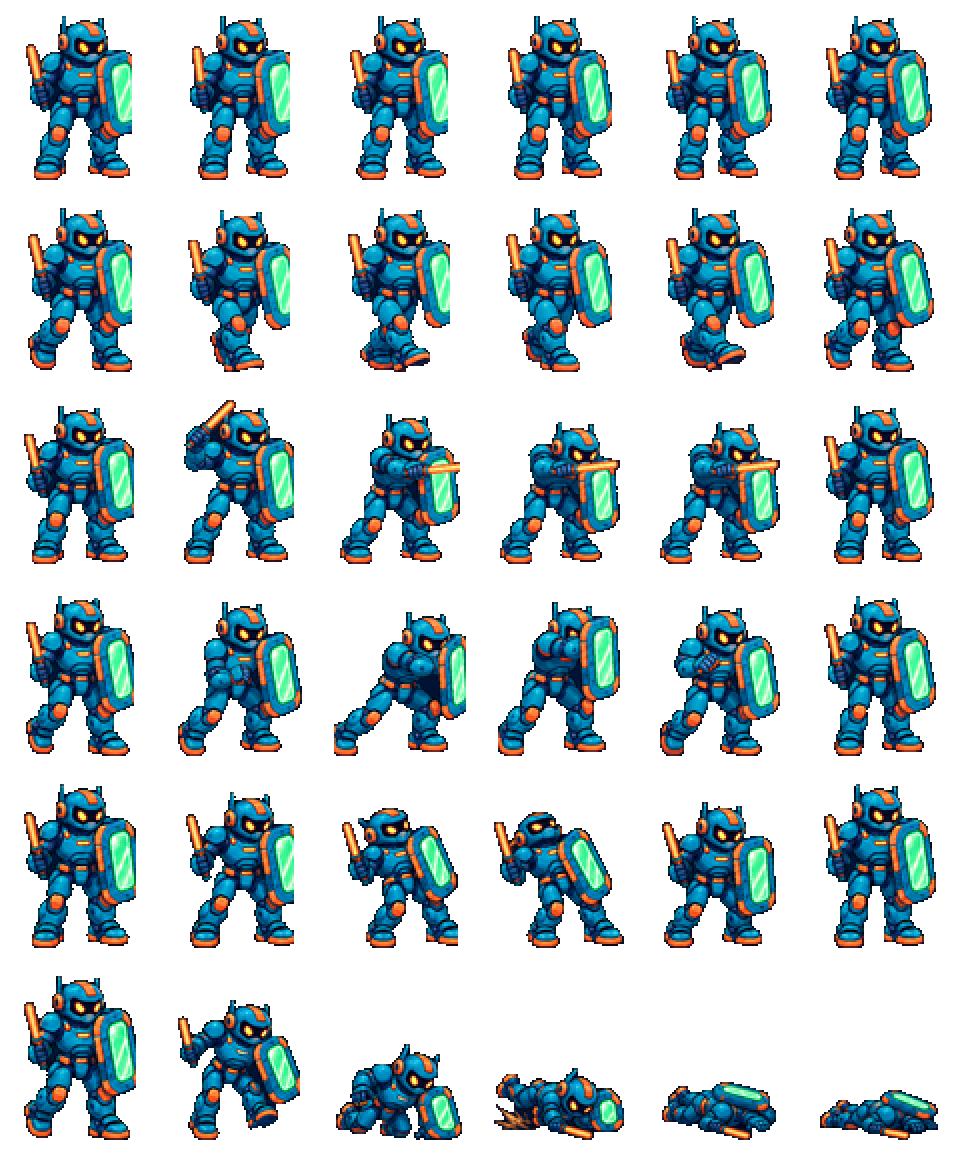
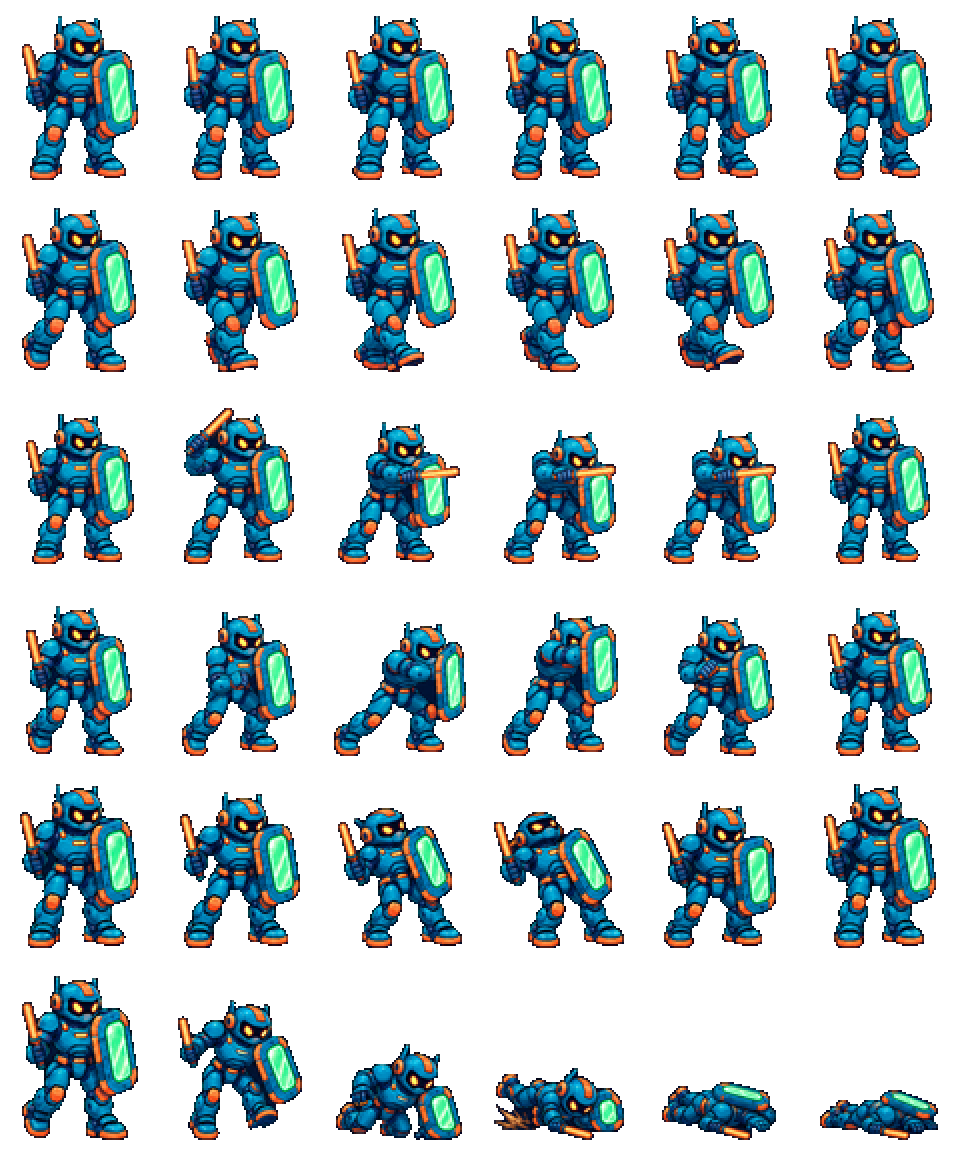
fix(assets): extract complete enemy poses by silhouette

diff --git a/android/tools/build_striker_enemy.py b/android/tools/build_striker_enemy.py
@@ -142,6 +142,60 @@ def clear_panel_edges(image: Image.Image) -> Image.Image:
     return rgba
 
 
+def component_boxes(mask: Image.Image) -> list[tuple[int, int, int, int]]:
+    """Find complete authored poses without assuming equal-width panels."""
+    width, height = mask.size
+    pixels = mask.load()
+    seen = bytearray(width * height)
+    boxes = []
+    for sy in range(height):
+        for sx in range(width):
+            index = sy * width + sx
+            if seen[index] or pixels[sx, sy] == 0:
+                continue
+            queue = deque([(sx, sy)])
+            seen[index] = 1
+            count = 0
+            left = right = sx
+            top = bottom = sy
+            while queue:
+                x, y = queue.popleft()
+                count += 1
+                left, right = min(left, x), max(right, x)
+                top, bottom = min(top, y), max(bottom, y)
+                for nx, ny in ((x-1,y),(x+1,y),(x,y-1),(x,y+1)):
+                    if 0 <= nx < width and 0 <= ny < height:
+                        ni = ny * width + nx
+                        if not seen[ni] and pixels[nx, ny]:
+                            seen[ni] = 1
+                            queue.append((nx, ny))
+            if count >= 5000:
+                boxes.append((left, top, right + 1, bottom + 1))
+    return boxes
+
+
+def complete_component_rows(image: Image.Image) -> list[list[Image.Image] | None]:
+    """Use transparent source components when all six poses are separable."""
+    clean = hard_alpha(image)
+    boxes = component_boxes(clean.getchannel("A"))
+    result: list[list[Image.Image] | None] = []
+    for row in range(2):
+        selected = [box for box in boxes
+                    if ((box[1] + box[3]) * 0.5 < image.height * 0.5) == (row == 0)]
+        selected.sort(key=lambda box: box[0])
+        if len(selected) != COLS:
+            result.append(None)
+            continue
+        frames = []
+        for left, top, right, bottom in selected:
+            pad = 8
+            crop = clean.crop((max(0, left-pad), max(0, top-pad),
+                                min(clean.width, right+pad), min(clean.height, bottom+pad)))
+            frames.append(keep_character_component(crop))
+        result.append(frames)
+    return result
+
+
 def translate_cell(image: Image.Image, dx: int, dy: int) -> Image.Image:
     shifted = Image.new("RGBA", image.size, (0, 0, 0, 0))
     shifted.alpha_composite(image, (dx, dy))
@@ -150,12 +204,16 @@ def translate_cell(image: Image.Image, dx: int, dy: int) -> Image.Image:
 
 def split_sheet(path: Path) -> list[list[Image.Image]]:
     image = Image.open(path)
+    component_rows = complete_component_rows(image.convert("RGBA")) if image.mode == "RGBA" else [None, None]
     if image.mode != "RGBA":
         image = remove_light_checker(image)
     else:
         image = image.convert("RGBA")
     result: list[list[Image.Image]] = []
     for row in range(2):
+        if component_rows[row] is not None:
+            result.append(component_rows[row])
+            continue
         frames = []
         top = round(image.height * row / 2)
         bottom = round(image.height * (row + 1) / 2)

diff --git a/android/tools/build_shield_guard_enemy.py b/android/tools/build_shield_guard_enemy.py
@@ -30,8 +30,8 @@ SHEETS = (
 SAFE_FRAME_REMAP = {2: (0, 1, 2, 3, 3, 5)}
 
 
-def foreground_mask(image: Image.Image) -> Image.Image:
-    """Extract bright/saturated enamel art from its dark navy presentation."""
+def foreground_candidates(image: Image.Image) -> Image.Image:
+    """Return all likely enamel-art pixels before choosing a pose."""
     rgb = image.convert("RGB")
     rough = Image.new("L", rgb.size, 0)
     source = rgb.load()
@@ -46,7 +46,42 @@ def foreground_mask(image: Image.Image) -> Image.Image:
                 target[x, y] = 255
     # Close small gaps, include the dark ink outline, then fill enclosed holes.
     rough = rough.filter(ImageFilter.MaxFilter(11)).filter(ImageFilter.MinFilter(7))
-    return largest_component(rough)
+    return rough
+
+
+def foreground_mask(image: Image.Image) -> Image.Image:
+    return largest_component(foreground_candidates(image))
+
+
+def component_boxes(mask: Image.Image) -> list[tuple[int, int, int, int]]:
+    width, height = mask.size
+    pixels = mask.load()
+    seen = bytearray(width * height)
+    boxes = []
+    for sy in range(height):
+        for sx in range(width):
+            index = sy * width + sx
+            if seen[index] or pixels[sx, sy] == 0:
+                continue
+            queue = deque([(sx, sy)])
+            seen[index] = 1
+            count = 0
+            left = right = sx
+            top = bottom = sy
+            while queue:
+                x, y = queue.popleft()
+                count += 1
+                left, right = min(left, x), max(right, x)
+                top, bottom = min(top, y), max(bottom, y)
+                for nx, ny in ((x-1,y),(x+1,y),(x,y-1),(x,y+1)):
+                    if 0 <= nx < width and 0 <= ny < height:
+                        ni = ny * width + nx
+                        if not seen[ni] and pixels[nx, ny]:
+                            seen[ni] = 1
+                            queue.append((nx, ny))
+            if count >= 5000:
+                boxes.append((left, top, right + 1, bottom + 1))
+    return boxes
 
 
 def largest_component(mask: Image.Image) -> Image.Image:
@@ -117,8 +152,21 @@ def extract_frame(frame: Image.Image) -> Image.Image:
 
 def split_sheet(path: Path) -> list[list[Image.Image]]:
     image = Image.open(path).convert("RGB")
+    boxes = component_boxes(foreground_candidates(image))
     result = []
     for row in range(2):
+        selected = [box for box in boxes
+                    if ((box[1] + box[3]) * 0.5 < image.height * 0.5) == (row == 0)]
+        selected.sort(key=lambda box: box[0])
+        if len(selected) == COLS:
+            frames = []
+            for left, top, right, bottom in selected:
+                pad = 8
+                frames.append(extract_frame(image.crop((max(0, left-pad), max(0, top-pad),
+                                                        min(image.width, right+pad),
+                                                        min(image.height, bottom+pad)))))
+            result.append(frames)
+            continue
         frames = []
         top = round(image.height * row / 2)
         bottom = round(image.height * (row + 1) / 2)

diff --git a/android/tools/test_shield_guard_enemy_contract.py b/android/tools/test_shield_guard_enemy_contract.py
@@ -11,6 +11,7 @@ JAVA = ANDROID / "app/src/main/java/com/familyforce/neonstreets"
 game = (JAVA / "GameView.java").read_text(encoding="utf-8")
 archetypes = (JAVA / "EnemyArchetype.java").read_text(encoding="utf-8")
 rosters = (JAVA / "StageRoster.java").read_text(encoding="utf-8")
+builder = (ANDROID / "tools/build_shield_guard_enemy.py").read_text(encoding="utf-8")
 
 assert "ENEMY_TYPE_COUNT = EnemyArchetype.COUNT" in game
 assert 'loadBitmapSampled("enemies/shield_guard.png"' in game
@@ -21,6 +22,8 @@ assert 'new EnemyArchetype("shield_guard", "SHIELD GUARD"' in archetypes
 assert "EnemyArchetype.STRIKER, EnemyArchetype.SHIELD_GUARD}" in rosters
 assert "StageRoster.includes(requestedStage, type)" in game
 assert "spawnEnemy(8, ENEMY_STRIKER, 5760, 270);" in game
+assert "component_boxes(foreground_candidates(image))" in builder
+assert "if len(selected) == COLS" in builder
 
 for relative, expected in (
     ("enemies/shield_guard.png", (512, 512)),

diff --git a/android/tools/test_striker_enemy_contract.py b/android/tools/test_striker_enemy_contract.py
@@ -10,6 +10,7 @@ ANDROID = Path(__file__).resolve().parents[1]
 ASSETS = ANDROID / "app/src/main/assets"
 SOURCE = (ANDROID / "app/src/main/java/com/familyforce/neonstreets/GameView.java").read_text()
 ARCHETYPES = (ANDROID / "app/src/main/java/com/familyforce/neonstreets/EnemyArchetype.java").read_text()
+BUILDER = (ANDROID / "tools/build_striker_enemy.py").read_text()
 
 required_code = (
     "private static final int ENEMY_STRIKER = EnemyArchetype.STRIKER;",
@@ -23,6 +24,9 @@ required_code = (
 for snippet in required_code:
     assert snippet in SOURCE, f"missing Striker runtime contract: {snippet}"
 assert 'new EnemyArchetype("striker", "STRIKER"' in ARCHETYPES
+assert "complete_component_rows" in BUILDER
+assert "component_boxes" in BUILDER
+assert "if component_rows[row] is not None" in BUILDER
 
 assert SOURCE.count("spawnEnemy(") >= 1
 assert SOURCE.count("spawnEnemy(0, ENEMY_STRIKER") == 1

diff --git a/PROJECT_HISTORY_AR.md b/PROJECT_HISTORY_AR.md
@@ -178,6 +178,22 @@
 
 ## سجل الطلبات والتعديلات المشترك
 
+### 2026-08-22-28 — استعادة مقدمة قفاز Striker ودرع Shield Guard
+
+- المنفذ: Codex
+- طلب المستخدم: لا يزال القفاز والدرع يُقصان من المقدمة أثناء الحركة.
+- الحالة: قيد التنفيذ.
+- نقطة البداية: `v0.30.1-alpha` / commit `f12a8d3`.
+- ما سيتم: تدقيق اكتمال الأداة داخل صور المصدر، استبدال الإطارات ذات الطرف
+  المقطوع بصور ثابتة كاملة داخل Safe Box، ثم إعادة بناء الأطلسين وفحصهما بصريًا.
+- الملفات المعدلة حتى الآن:
+  - `PROJECT_HISTORY_AR.md`
+- الاختبارات: قيد التنفيذ.
+- Release: لا يوجد بعد.
+- ملاحظات/مخاطر: هامش الشفافية وحده لا يكشف أن الرسم مقصوص قبل التطبيع؛ ستضاف
+  بوابة silhouette/طرف أمامي إلى جانب هامش الخلية. لا فيديو.
+- التالي: عرض Action Sheets الأصلية وتحديد الإطارات المتضررة قبل تعديلها.
+
 ### 2026-08-22-27 — إصلاح أصل التحديث داخل GitHub Release
 
 - المنفذ: Codex
